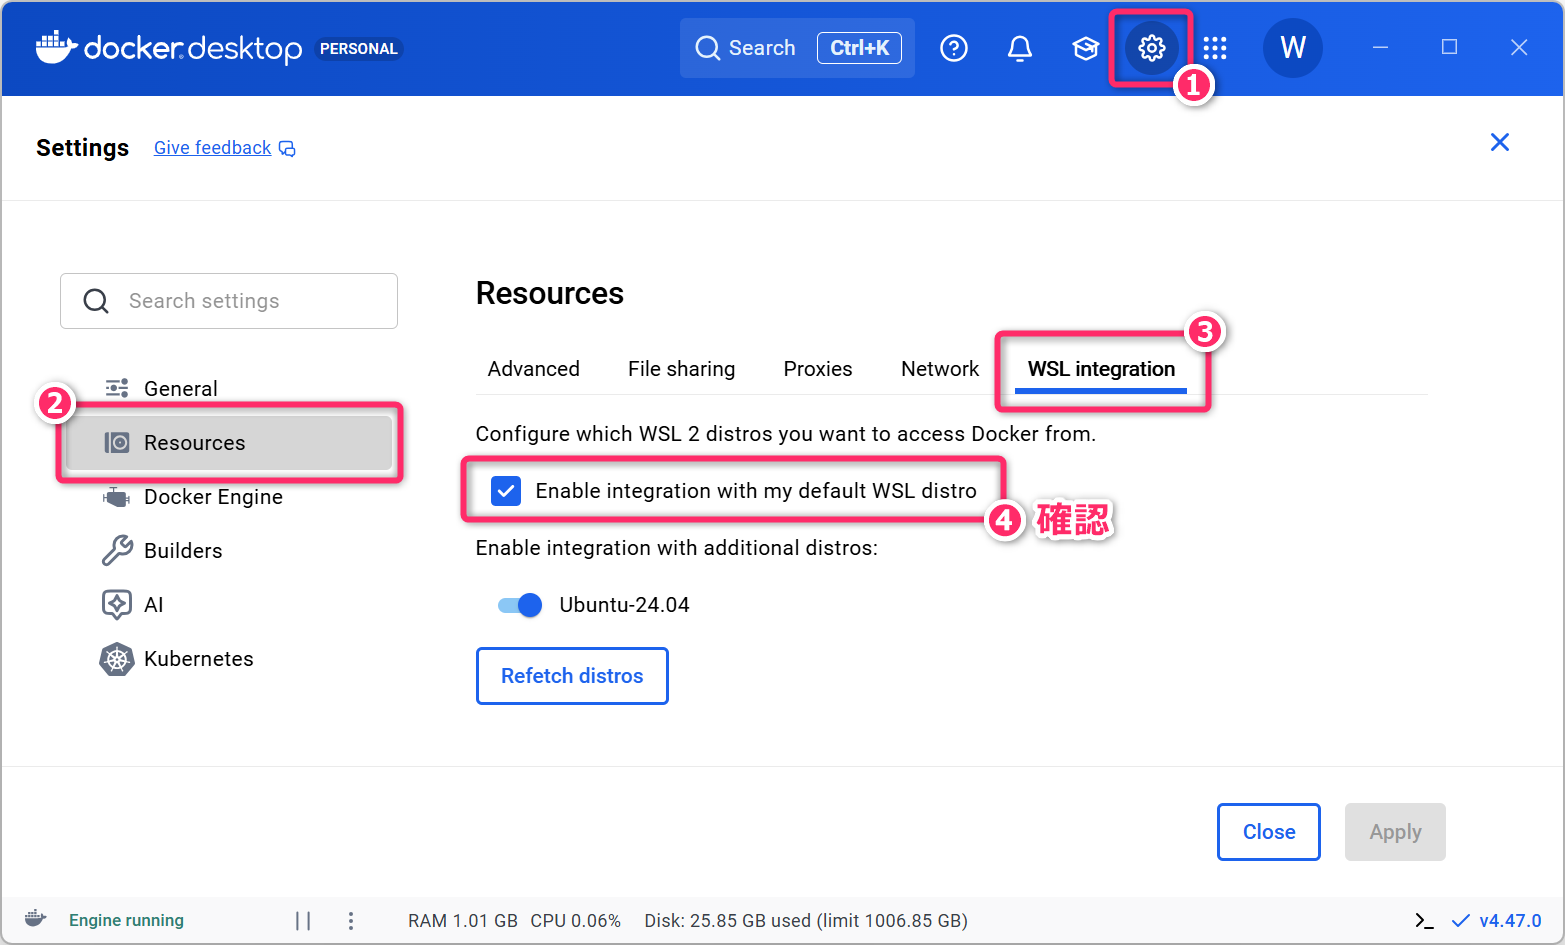
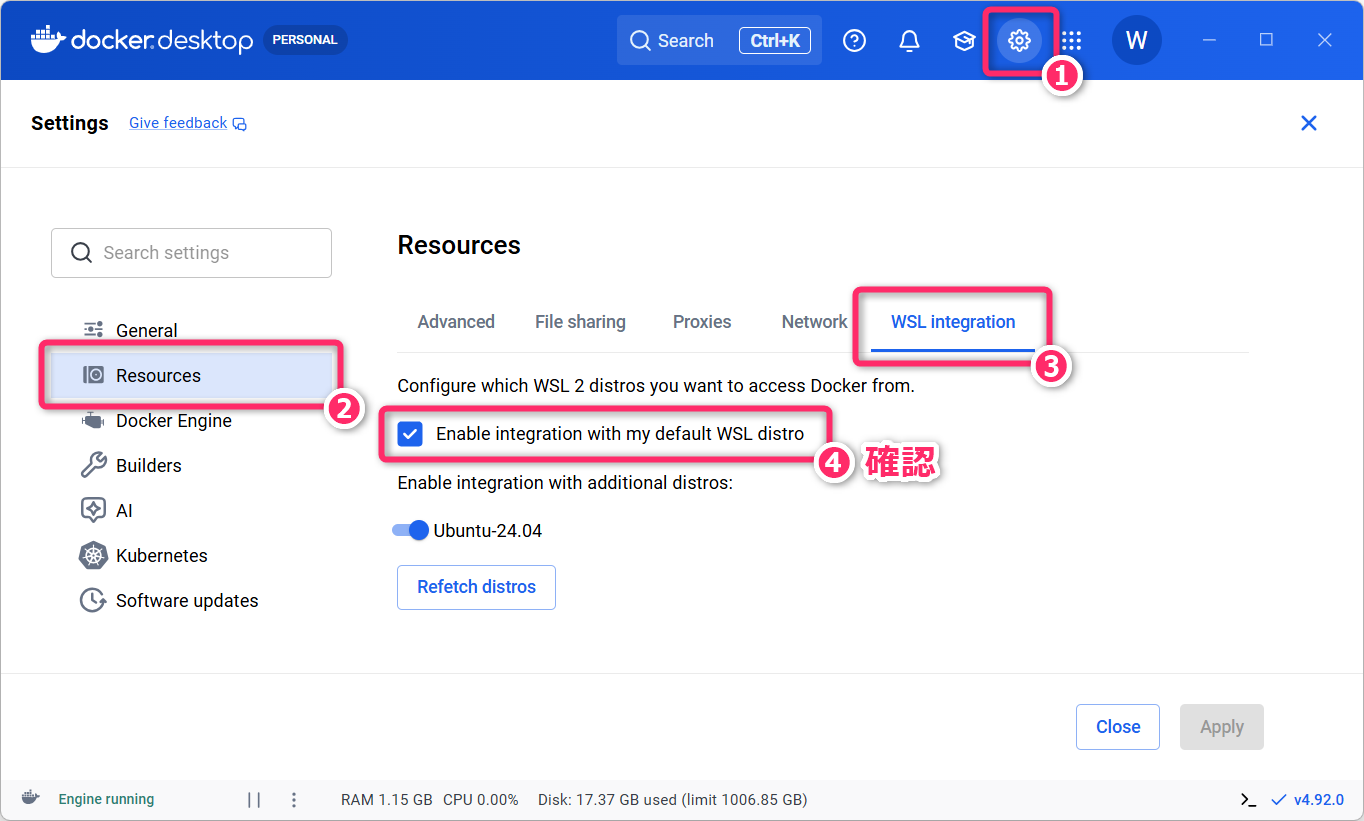
update 5 files

diff --git a/docs/lecture01.html b/docs/lecture01.html
@@ -144,7 +144,7 @@ class="toc-section-number">8</span> 授業時間外学習の指示 (宿題)</a><
       SQL/ORM)、<strong>保守運用</strong> について、ハンズオン形式で (＝実際に手を動かしながら)
       学んでいきます。また「<strong>ドキュメント指向データベース</strong>」についても、基本概念や環境構築、操作などの概要を学んでいきます。</p>
       <ul>
-      <li>リレーショナルデータについては <a href="https://www.postgresql.org/">PostgreSQL</a>
+      <li>リレーショナルデータベースについては <a href="https://www.postgresql.org/">PostgreSQL</a>
       を使用します。
       <ul>
       <li>昨年度の「プログラミング3」の講義で利用した <a href="https://supabase.com/">Supabase</a>
@@ -164,25 +164,25 @@ class="toc-section-number">8</span> 授業時間外学習の指示 (宿題)</a><
       (ウェブベースのデータベースクライアント) から接続して、SQL や ユーティリティコマンド
       を実行できる。</li>
       <li>現実世界の要件を分析し、<strong>ER図を用いた概念設計</strong>ができる。</li>
-      <li>リレーショナルモデルについて、<strong>正規化や外部キー制約制約、インデックス設計などの論理設計</strong>ができる。</li>
+      <li>リレーショナルモデルについて、<strong>正規化や外部キー制約、インデックス設計などの論理設計</strong>ができる。</li>
       <li><strong>SQL</strong>
       を用いてリレーショナルデータベースに対する各種クエリが実行できる。</li>
       <li>TypeScript から、<a href="https://www.npmjs.com/package/pg">pg</a>（DBドライバ）や <a
       href="https://www.npmjs.com/package/prisma">Prisma</a>・<a
       href="https://www.npmjs.com/package/drizzle-orm">Drizzle</a>（ORM）を用いて PostgreSQL
       に接続し、データの保存・取得・更新などができる。</li>
-      <li>Docker を使用して MongoDB の実行環境を構築ができる。</li>
+      <li>Docker を使用して MongoDB の実行環境を構築できる。</li>
       <li>TypeScript から MongoDB に接続して基本的な CRUD 操作ができる。</li>
       </ol>
       <hr />
       <p><strong><i class="fa-solid fa-comment-dots fa-flip-horizontal"></i>プロンプト例</strong>
-      <font size="-1">理解が曖昧な用語は生成AIを使って、再確認しておきましょう)</font></p>
+      <font size="-1">(理解が曖昧な用語は生成AIを使って、再確認しておきましょう)</font></p>
       <blockquote>
       <p>ソフトウェア開発の文脈で「データの永続化」ってどういう意味ですか。</p>
       </blockquote>
       <blockquote>
       <p>Docker ってなに？「Docker を使用して PostgreSQL
-      の実行環境を構築できように」っていわれたんですけど。</p>
+      の実行環境を構築できるように」っていわれたんですけど。</p>
       </blockquote>
       <h2 data-number="1.2" id="授業の位置づけ"><span class="header-section-number">1.2</span>
       授業の位置づけ</h2>
@@ -222,13 +222,13 @@ class="toc-section-number">8</span> 授業時間外学習の指示 (宿題)</a><
       <ul>
       <li><a
       href="https://takeshiwada1980.github.io/Programming1-2024/lecture11.html#sqliteとの連携">Python
-      と Sqlite3 の連携</a></li>
+      と SQLite3 の連携</a></li>
       </ul></li>
       <li>3年 後期 (学修単位)「<strong>プログラミング3</strong>」(TypeScript/Next.js/Supabase)
       <ul>
       <li><a
       href="https://takeshiwada1980.github.io/Programming3-2025/lecture08.html#データの永続化">ウェブアプリのデータの永続化</a>
-      Prisma (TypeScript ORM) + Supabse (PostgreSQL)</li>
+      Prisma (TypeScript ORM) + Supabase (PostgreSQL)</li>
       </ul></li>
       <li>3年 後期「<strong>知能情報実験実習1</strong>」
       <ul>
@@ -236,9 +236,9 @@ class="toc-section-number">8</span> 授業時間外学習の指示 (宿題)</a><
       </ul></li>
       <li>4年 前期「<strong>知能情報実験実習2</strong>」
       <ul>
-      <li>前期テーマ1：Prisma (TypeSCript ORM) + SqLite3 <a
+      <li>前期テーマ1：Prisma (TypeScript ORM) + SQLite3 <a
       href="https://takeshiwada1980.github.io/Eii2-2026/">資料</a></li>
-      <li>前期テーマ2：SQLAlchemy (Python ORM) + SqLite3</li>
+      <li>前期テーマ2：SQLAlchemy (Python ORM) + SQLite3</li>
       </ul></li>
       </ul>
       <div class="balloon char-01 face-02 tone-yellow">
@@ -252,7 +252,7 @@ class="toc-section-number">8</span> 授業時間外学習の指示 (宿題)</a><
       <li><a href="https://www.ipa.go.jp/shiken/kubun/fe.html">基本情報技術者試験</a> CBT形式</li>
       <li><a href="https://www.ipa.go.jp/shiken/kubun/ap.html">応用情報技術者試験</a> CBT形式
       <ul>
-      <li>応用情報技術者試験は、2026年度の春に廃止予定。詳しくは <a
+      <li>応用情報技術者試験は、<strong>2027年度から新試験制度へ移行予定</strong>。詳しくは <a
       href="https://www.ipa.go.jp/shiken/minaoshi/index.html">こちら</a> を参照してください。</li>
       </ul></li>
       </ul>
@@ -562,7 +562,7 @@ class="toc-section-number">8</span> 授業時間外学習の指示 (宿題)</a><
       </ul>
       <div class="note type-senior">
       <p><strong>バイト単位のファイルロック</strong></p>
-      <p>Windows や Linux、MacOS などの OS では、ファイル単位に加えて
+      <p>Windows や Linux、macOS などの OS では、ファイル単位に加えて
       <strong>バイト単位のファイルロック機能</strong>
       も提供しています。こちらを利用すれば、<strong>ファイル内の特定範囲にロックをかけることが可能</strong>となります。しかし、その利用には以下のような大きな制約や難しさがあります。</p>
       <ul>
@@ -634,12 +634,12 @@ class="toc-section-number">8</span> 授業時間外学習の指示 (宿題)</a><
       <div class="note type-tips">
       <p><strong>ファイルを分割しても解決しない問題</strong></p>
       <p>ファイルによるデータ管理において、細かな粒度で排他制御やアクセス権の設定を行いたい場合、<strong>データを複数のファイルに分割して保存する</strong>
-      という戦略があります。例えば、科目ごとにファイルを分けて「2025年度のDB工学の成績.json」「2025年度の論理回路2の成績.json」といった形で管理する、といったやり方です。このようにすれば、影響範囲を最小に留めたロックや、細かなアクセス権の設定が可能になります。</p>
-      <p>しかし、この戦略をとった場合、検索や集計の際には複数ファイルを横断して読み込み処理が必要があり、パフォーマンスが著しく低下するという欠点があります。一般に「1KBのファイルを1000個読み込む場合」と「1MBのファイルを1個読み込む場合」を比較すると、前者の方が圧倒的に負荷が高く、処理に大きな時間がかかるようになります。</p>
+      という戦略があります。例えば、科目ごとにファイルを分けて「2026年度のDB工学の成績.json」「2026年度の論理回路2の成績.json」といった形で管理する、といったやり方です。このようにすれば、影響範囲を最小に留めたロックや、細かなアクセス権の設定が可能になります。</p>
+      <p>しかし、この戦略をとった場合、検索や集計の際には複数ファイルを横断して読み込み処理が必要であり、パフォーマンスが著しく低下するという欠点があります。一般に「1KBのファイルを1000個読み込む場合」と「1MBのファイルを1個読み込む場合」を比較すると、前者の方が圧倒的に負荷が高く、処理に大きな時間がかかるようになります。</p>
       </div>
       <p><strong>(プロンプト例)</strong></p>
       <blockquote>
-      <p>一般なOSのファイルシステムでは「1KBのファイルを1000個読み込む場合」と「1MBのファイルを1個読み込む場合」では、前者の方が圧倒的に負荷が高く時間を要しますが、これは何故ですか。また、例外
+      <p>一般的なOSのファイルシステムでは「1KBのファイルを1000個読み込む場合」と「1MBのファイルを1個読み込む場合」では、前者の方が圧倒的に負荷が高く時間を要しますが、これは何故ですか。また、例外
       (逆転するケース) はありますか？</p>
       </blockquote>
       <h2 data-number="3.7" id="データサイズやパフォーマンスに関する問題や制約"><span
@@ -653,7 +653,7 @@ class="toc-section-number">8</span> 授業時間外学習の指示 (宿題)</a><
       <p>ファイルI/Oにおける「バイトオフセット」とは何ですか。</p>
       </blockquote>
       <blockquote>
-      <p>「大きなデータファイルのから特定のデータを高速に検索するためには、インデックスやキャッシュといった仕組みが必要」と聞きました。「インデックス」と「キャッシュ」の基本的な仕組みを教えてください。</p>
+      <p>「大きなデータファイルから特定のデータを高速に検索するためには、インデックスやキャッシュといった仕組みが必要」と聞きました。「インデックス」と「キャッシュ」の基本的な仕組みを教えてください。</p>
       </blockquote>
       <hr />
       <p>以上のような理由から (その他にも様々な理由から)
@@ -661,7 +661,7 @@ class="toc-section-number">8</span> 授業時間外学習の指示 (宿題)</a><
       において、CSV や JSON
       などのデータファイルを共用してデータ管理することは、現実的ではないという結論となります。</p>
       <p>もちろん、高度な設計と実装技術を駆使すれば、これらの問題を解決することは可能です。ただし、そのような高度なデータ管理の仕組みを具現化したものこそが「DBMS」であり、通常のシステム開発において、それを自前で開発することはありません。</p>
-      <p>ここでに示した問題や制約は DBMS
+      <p>ここで示した問題や制約は DBMS
       を導入し、それを適切に利用することで大部分を解決することができます。</p>
       <h1 data-number="4" id="dbms-を利用したデータ管理の概要"><span
       class="header-section-number">4</span> DBMS を利用したデータ管理の概要</h1>
@@ -709,7 +709,7 @@ class="toc-section-number">8</span> 授業時間外学習の指示 (宿題)</a><
       </ul>
       <p><strong>プロンプト例</strong></p>
       <blockquote>
-      <p>PostgreSQL や MySQL のような DMBS は、TCP/IP
+      <p>PostgreSQL や MySQL のような DBMS は、TCP/IP
       で別ホストに配置したクライアントから接続できると聞きました。アプリケーション層では、どのようなプロトコルを使うのですか。</p>
       </blockquote>
       <blockquote>
@@ -782,7 +782,7 @@ class="toc-section-number">8</span> 授業時間外学習の指示 (宿題)</a><
       </ul></li>
       </ul>
       <p>なお、本科目では、リレーショナルデータベースとして PostgreSQL を使用しますが、PostgreSQL
-      は、リレーショナルモデルに基づくだけはなく <span
+      は、リレーショナルモデルに基づくだけではなく <span
       class="masked">オブジェクト指向データベース的な特徴や機能</span>
       も備えています。実際、PostgreSQLの<a
       href="https://www.postgresql.org/docs/current/intro-whatis.html">公式ドキュメント</a>のなかでも
@@ -833,7 +833,7 @@ class="toc-section-number">8</span> 授業時間外学習の指示 (宿題)</a><
       <p><strong>(このセクションは「情報2」の第10回講義の増補版です)</strong></p>
       <p>リレーショナルデータベース (RDB: Relational Database) とは Excel のような
       <strong>表形式</strong>
-      でデータを管理するデータベースモデルです。「<strong>RDB</strong>」と略されほか、「<strong>関係データベース</strong>」とも呼ばれたりします。特に「ITパスポート試験」や「基本情報技術者試験」では
+      でデータを管理するデータベースモデルです。「<strong>RDB</strong>」と略されるほか、「<strong>関係データベース</strong>」とも呼ばれたりします。特に「ITパスポート試験」や「基本情報技術者試験」では
       <span class="masked">関係データベース</span> という呼称が使われます。</p>
       <p>RDBでは、Excel
       のシートに相当するものを「<strong>テーブル（Table）</strong>」と呼びます。また、「列」を「<strong>カラム
@@ -1059,8 +1059,8 @@ class="toc-section-number">8</span> 授業時間外学習の指示 (宿題)</a><
       <li>SQL
       の詳細については、<strong>今後の授業の内容なので、現時点で詳細に理解する必要はありません</strong>。</li>
       </ul>
-      <p>サイトにアクセスして、Database として「PostgreSQL 17」を選択してください。PostgreSQL
-      は、毎年9～10月頃に新しいメジャーバージョンがリリースされていて、v17 は 2024年9月26日
+      <p>サイトにアクセスして、Database として「PostgreSQL 18」を選択してください。PostgreSQL
+      は、毎年9～10月頃に新しいメジャーバージョンがリリースされていて、v18 は 2025年9月25日
       (約1年前) にリリースされています。</p>
       <figure>
       <img src="figs/01/db-fiddle-01.png" alt="img" />
@@ -1068,7 +1068,7 @@ class="toc-section-number">8</span> 授業時間外学習の指示 (宿題)</a><
       </figure>
       <p>まずは、社員と部署に関するテーブルのスキーマを定義し、そこにデータを挿入
       (<strong>INSERT</strong>) していきたいと思います。<a
-      href="https://github.com/TakeshiWada1980/DB-2025/blob/main/docs/codes/01/init-table.sql">こちら</a>(👈<code>init-table.sql</code>)
+      href="https://github.com/TakeshiWada1980/DB-2026/blob/main/docs/codes/01/init-table.sql">こちら</a>(👈<code>init-table.sql</code>)
       から SQL をコピーして、以下のように <strong>Schema SQL</strong> のペイン (領域)
       に貼り付けてください。</p>
       <figure>
@@ -1078,7 +1078,7 @@ class="toc-section-number">8</span> 授業時間外学習の指示 (宿題)</a><
       <p><strong>Schema SQL</strong> ペインで <code>[Ctrl]+[Enter]</code>
       を押下すると実際にコードが実行されます。成功すると、<strong>Results</strong> ペイン に
       <code>There are no results to be displayed.</code> のように表示されます。失敗する場合は
-      Daatabase
+      Database
       が「PostgreSQL」になっていることを確認してください。「MySQL」や「SQLite」になっていると失敗します。</p>
       <hr />
       <p>次に、<strong>employees</strong> テーブルから全てのレコードを取得してみます。以下のように
@@ -1423,7 +1423,7 @@ class="toc-section-number">8</span> 授業時間外学習の指示 (宿題)</a><
       <strong>Docker</strong>（<strong>Docker
       Desktop</strong>）のインストールと動作確認までを行います。なお、既に Docker Desktop
       をインストール済みの場合は再インストールの必要はありません。ただし、最新バージョン
-      (2025年10月1日現在の最新バージョンは <strong>4.47.0</strong> )
+      (2026年09月27日現在の最新バージョンは <strong>4.92.0</strong> )
       にアップデートしておくことを推奨します。</p>
       <p>なお、Docker は、Git/GitHub
       とあわせてソフトウェア開発の現場では標準的に使われる技術になっています。既に3年生の後期の「知能情報実験実習1」のなかで
@@ -1450,7 +1450,7 @@ class="toc-section-number">8</span> 授業時間外学習の指示 (宿題)</a><
       <li><a href="https://www.google.com/search?q=DockerDesktop+インストール+windows">DockerDesktop
       インストール Windows</a>@ Google検索
       <ul>
-      <li>比較的に新しい情報を参照するようにしてください。</li>
+      <li>比較的新しい情報を参照するようにしてください。</li>
       <li>Windows で Docker
       を動かすには「Hyper-V」を利用する方法と、「WSL2」を利用する方法があります。基本的に「WSL2」を利用する方法でインストールと設定をしてください。</li>
       </ul></li>
@@ -1494,8 +1494,9 @@ class="toc-section-number">8</span> 授業時間外学習の指示 (宿題)</a><
       <h2 data-number="7.3" id="hello-world-コンテナの起動確認"><span
       class="header-section-number">7.3</span> Hello World コンテナの起動確認</h2>
       <p>Docker Desktop
-      の起動が確認できたら、コンテナを問題なく起動できるかを確認しています。ターミナル (PowerShell)
-      を開いて <code>docker run --rm hello-world</code> というコマンドを実行してください。</p>
+      の起動が確認できたら、コンテナを問題なく起動できるかを確認していきます。ターミナル
+      (PowerShell) を開いて <code>docker run --rm hello-world</code>
+      というコマンドを実行してください。</p>
       <pre><code>PS C:\Users\xxxx&gt; docker run --rm hello-world</code></pre>
       <p>このコマンドの意味については、生成AIやウェブ検索を利用して把握しておいてください。</p>
       <p><strong>(プロンプト例)</strong></p>
@@ -1514,8 +1515,8 @@ class="toc-section-number">8</span> 授業時間外学習の指示 (宿題)</a><
       <pre><code>PS C:\Users\xxxx&gt; docker run --rm hello-world
 Unable to find image &#39;hello-world:latest&#39; locally
 latest: Pulling from library/hello-world
-17eec7bbc9d7: Pull complete
-Digest: sha256:54e66cc1dd1fcb1c3c58bd8017914dbed8701e2d8c74d9262e26bd9cc1642d31
+4f55086f7dd0: Pull complete
+Digest: sha256:5e23090353324d887c48ad5e5c56d294eab81588df9605b07d1afe895f9cc8f8
 Status: Downloaded newer image for hello-world:latest
 
 Hello from Docker!
@@ -1526,7 +1527,7 @@ To generate this message, Docker took the following steps:
  2. The Docker daemon pulled the &quot;hello-world&quot; image from the Docker Hub.
     (amd64)
  3. The Docker daemon created a new container from that image which runs the
-    executable that produces the output you are currently reading.  
+    executable that produces the output you are currently reading.
  4. The Docker daemon streamed that output to the Docker client, which sent it
     to your terminal.
 
@@ -1550,7 +1551,7 @@ For more examples and ideas, visit:
       4. Dockerデーモンはその出力を Docker クライアントにストリーミングし、Docker
       クライアントはそれをターミナルに送信しました。</p>
       <p>より野心的なものを試すには、次のように Ubuntuコンテナ を実行します。<br />
-      $docker run-it ubuntu bash</p>
+      $ docker run -it ubuntu bash</p>
       <p>無料の Docker ID を使用して、イメージの共有、ワークフローの自動化などを行います。<br />
       https://hub.docker.com/</p>
       <p>その他の例やアイデアについては、次のサイトを参照してください。<br />
